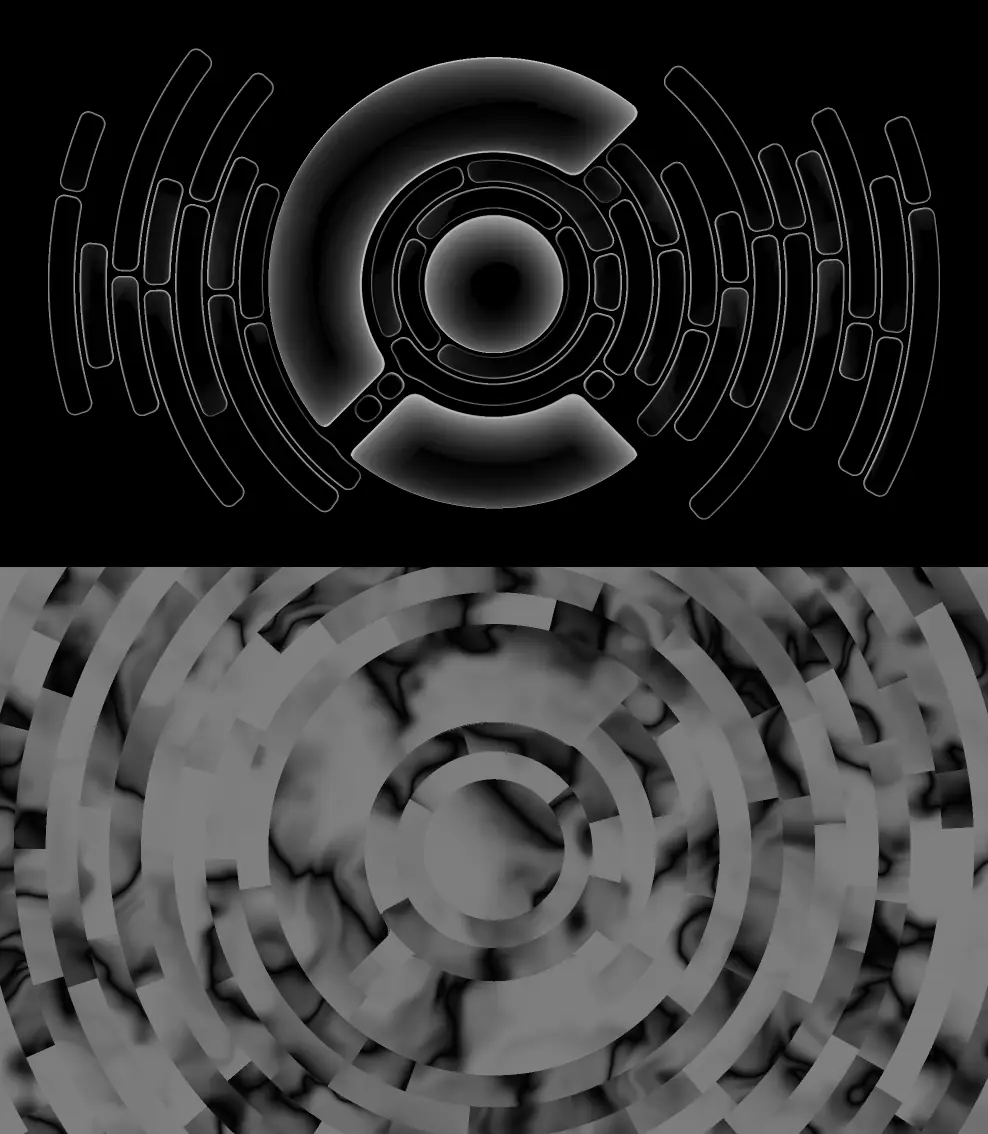
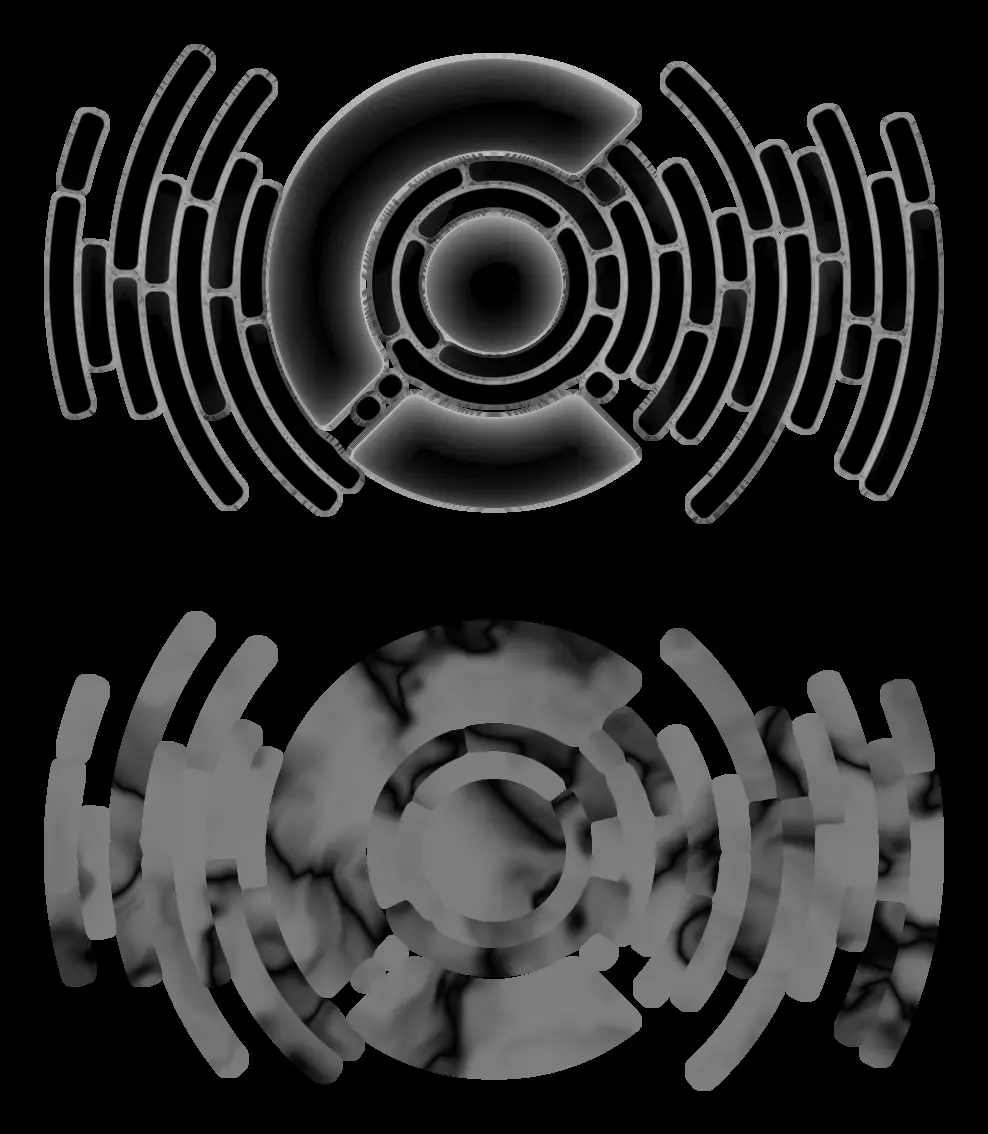
feat(repo): add a drifting highlight and smoother grain to the Mosaic hero
The hero gains a slow drifting specular light on desktop. The surface grain no
longer shows a grid under the hover iridescence and stays off the bevels, and
the stepped outline around the Clerk symbol in dark mode is fixed.

diff --git a/packages/mosaic-site/src/components/marketing/baked-mosaic.tsx b/packages/mosaic-site/src/components/marketing/baked-mosaic.tsx
@@ -148,6 +148,8 @@ const SHEEN: Sheen = {
 
 export const SWAY = { x: 0.2, y: 160, speed: 0.1, detail: 0.5, glint: 0.05, size: 12 };
 
+export const DRIFT = { light: 0.06, dark: 0.08, size: 14, height: 260, reachX: 0.3, reachY: 150, period: 16 };
+
 export const SWAY_FRAME_MS = 32;
 const SWAY_IDLE_MS = 20000;
 
@@ -305,6 +307,11 @@ uniform float u_sheen_light;
 uniform float u_sheen_light_tint;
 uniform float u_sheen_dark;
 uniform float u_sway_size;
+uniform float u_drift_x;
+uniform float u_drift_y;
+uniform float u_drift_z;
+uniform float u_drift_size;
+uniform float u_drift_glint;
 uniform float u_fresnel;
 uniform float u_highlight;
 uniform float u_fresnel_power;
@@ -457,6 +464,8 @@ void main() {
   alpha = mix(alpha, baked.r, frost);
   skeletonAlpha = mix(skeletonAlpha, baked.g, frost);
   vec2 scene = at + vec2(u_origin_x, u_origin_y);
+  vec2 detailAt = (scene - vec2(u_center_x, u_center_y)) / max(u_zoom, 0.05);
+  float detailPixel = max(fwidth(detailAt.x), fwidth(detailAt.y));
   vec3 toLight = normalize(vec3(u_light_x * u_scene_w, -u_light_y, u_light_z) - vec3(scene, 0.0));
   vec3 color = vec3(0.0);
 
@@ -464,16 +473,16 @@ void main() {
     vec2 packedNormal = surfaceData.rg * 2.0 - 1.0;
     vec2 nxy = packedNormal * abs(packedNormal);
     vec3 surface = normalize(vec3(nxy, sqrt(max(1.0 - dot(nxy, nxy), 0.0))));
-    vec2 detail = vec2(0.0);
-    if (u_detail > 0.0) {
-      vec2 detailAt = (scene - vec2(u_center_x, u_center_y)) / max(u_zoom, 0.05);
-      detail = surfaceDetail(detailAt, u_detail_scale, u_detail_grain, u_detail_dots);
-      surface = normalize(surface + vec3(detail * u_detail, 0.0));
-    }
     float packed = floor(surfaceData.b * 255.0 + 0.5);
     float isLogo = step(127.5, packed);
     float tone = clamp((packed - isLogo * 145.0) / 110.0, 0.0, 1.0);
     float edge = clamp(surfaceData.a * 2.0 - 1.0, 0.0, 1.0) * EDGE_MAX;
+    vec2 detail = vec2(0.0);
+    if (u_detail > 0.0) {
+      float detailFace = smoothstep(0.0, max(1.5 * u_depth_reach, 0.001), edge);
+      detail = surfaceDetail(detailAt, detailPixel, u_detail_scale, u_detail_grain, u_detail_dots) * detailFace;
+      surface = normalize(surface + vec3(detail * u_detail, 0.0));
+    }
 
     vec3 tile = mix(u_tile_low, u_tile_high, tone);
     vec3 logoTile = mix(u_logo_low, u_logo_high, tone);
@@ -503,6 +512,11 @@ void main() {
     color += vec3(u_cloud_add * cloudSignal);
     float swaySpread = acos(clamp(dot(surface, halfway), -1.0, 1.0)) / max(radians(u_sway_size), 0.001);
     color += exp(-swaySpread * swaySpread) * u_sway_glint;
+    if (u_drift_glint > 0.0) {
+      vec3 toDrift = normalize(vec3(u_drift_x, u_drift_y, u_drift_z) - vec3(scene, 0.0));
+      float driftSpread = acos(clamp(dot(surface, normalize(toDrift + toEye)), -1.0, 1.0)) / max(radians(u_drift_size), 0.001);
+      color += exp(-driftSpread * driftSpread) * u_drift_glint;
+    }
 
     vec3 sheenAdd = vec3(0.0);
     float sheenReveal = u_sheen > 0.0 ? trailReveal(at) : 0.0;
@@ -549,7 +563,7 @@ void main() {
   float shadow = 0.0;
   if (u_shadow_strength > 0.0 && alpha < 1.0) {
     vec2 reach = toLight.xy / max(toLight.z, 0.05) * u_shadow_height;
-    shadow = occluderAt(at + reach) * u_shadow_strength;
+    shadow = min(occluderAt(at + reach) * u_shadow_strength, 1.0);
   }
 
   vec4 glass = vec4(color * alpha, alpha + shadow * (1.0 - alpha));
@@ -645,6 +659,11 @@ export function buildUniforms(
     u_spec_size: f(s.specSize),
     u_sway_glint: f(SWAY.glint),
     u_sway_size: f(SWAY.size),
+    u_drift_x: f(center[0]),
+    u_drift_y: f(center[1]),
+    u_drift_z: f(DRIFT.height),
+    u_drift_size: f(DRIFT.size),
+    u_drift_glint: f(0),
     u_fresnel: f(s.fresnel),
     u_highlight: f(s.highlight ?? 1),
     u_fresnel_power: f(s.fresnelPower),
@@ -866,12 +885,14 @@ export function BakedMosaic() {
     return () => events.forEach(name => window.removeEventListener(name, onActivity));
   }, [pointerEffects]);
   const startRef = React.useRef<number | null>(null);
+  const reducedRef = React.useRef(false);
   React.useEffect(() => {
     if (!isReady) {
       startRef.current = null;
       return;
     }
     const reduced = window.matchMedia('(prefers-reduced-motion: reduce)').matches;
+    reducedRef.current = reduced;
     startRef.current = reduced ? -Infinity : performance.now();
   }, [isReady]);
   const liveUniforms = React.useCallback(
@@ -882,7 +903,8 @@ export function BakedMosaic() {
       u_skeleton_fade: { type: 'uniform1f', value: skeletonFade(startRef.current) },
       ...(() => {
         const { last, idle } = activityRef.current;
-        const t = ((Math.min(performance.now(), last + SWAY_IDLE_MS) - idle) / 1000) * SWAY.speed;
+        const seconds = (Math.min(performance.now(), last + SWAY_IDLE_MS) - idle) / 1000;
+        const t = seconds * SWAY.speed;
         const swaying = pointerEffects && SWAY.speed > 0;
         const dx = swaying ? swayNoise(t, 0, SWAY.detail) * SWAY.x : 0;
         const dy = swaying ? swayNoise(t, 57, SWAY.detail) * SWAY.y : 0;
@@ -891,10 +913,23 @@ export function BakedMosaic() {
           u_light_y: { type: 'uniform1f', value: settings.lightY + dy },
           u_sway_glint: { type: 'uniform1f', value: swaying ? SWAY.glint : 0 },
           u_sway_size: { type: 'uniform1f', value: SWAY.size },
+          u_drift_x: {
+            type: 'uniform1f',
+            value: center[0] + Math.sin((seconds / DRIFT.period) * Math.PI * 2) * DRIFT.reachX * width,
+          },
+          u_drift_y: {
+            type: 'uniform1f',
+            value: center[1] + Math.sin((seconds / (DRIFT.period * 1.618)) * Math.PI * 2 + 1.3) * DRIFT.reachY,
+          },
+          u_drift_glint: {
+            type: 'uniform1f',
+            value: swaying && !reducedRef.current ? (mode === 'light' ? DRIFT.light : DRIFT.dark) : 0,
+          },
         } satisfies Uniforms;
       })(),
     }),
-    [spring, lightX, follow, pointerEffects, settings.lightY],
+    // eslint-disable-next-line react-hooks/exhaustive-deps
+    [spring, lightX, follow, pointerEffects, settings.lightY, center[0], center[1], width, mode],
   );
   const shouldRender = React.useCallback(() => {
     const start = startRef.current;

diff --git a/packages/mosaic-site/src/components/marketing/mosaic-bake.ts b/packages/mosaic-site/src/components/marketing/mosaic-bake.ts
@@ -5,6 +5,7 @@ export const BAKE_SCALE = 2;
 const PAD = 48;
 const REVEAL_DOWNSAMPLE = 4;
 const SHADE_DOWNSAMPLE = 2;
+const SHADE_DILATE = 4;
 export const BAKE_MARGIN = 400;
 const MARGIN = BAKE_MARGIN;
 
@@ -228,31 +229,81 @@ function revealTextures(
   return { data, width: outWidth, height: outHeight };
 }
 
-function shadeTexture(
-  ao: { data: Uint8Array; width: number; height: number },
-  cloud: { data: Uint8Array; width: number; height: number },
+function coveredAverage(
+  source: { data: Uint8Array; width: number; height: number },
+  mask: { data: Uint8Array },
+  outWidth: number,
+  outHeight: number,
 ) {
   const small = SHADE_DOWNSAMPLE;
-  const outWidth = Math.ceil(ao.width / small);
-  const outHeight = Math.ceil(ao.height / small);
-  const data = new Uint8Array(outWidth * outHeight * 2);
-  [ao, cloud].forEach((source, half) => {
+  let values = new Float32Array(outWidth * outHeight);
+  let filled = new Uint8Array(outWidth * outHeight);
+  for (let y = 0; y < outHeight; y += 1) {
+    for (let x = 0; x < outWidth; x += 1) {
+      let sum = 0;
+      let weight = 0;
+      for (let dy = 0; dy < small; dy += 1) {
+        for (let dx = 0; dx < small; dx += 1) {
+          const sy = y * small + dy;
+          const sx = x * small + dx;
+          if (sy < source.height && sx < source.width) {
+            const at = sy * source.width + sx;
+            const alpha = mask.data[at * 2 + 1];
+            sum += source.data[at] * alpha;
+            weight += alpha;
+          }
+        }
+      }
+      if (weight > 0) {
+        values[y * outWidth + x] = sum / weight;
+        filled[y * outWidth + x] = 1;
+      }
+    }
+  }
+  for (let pass = 0; pass < SHADE_DILATE; pass += 1) {
+    const nextValues = values.slice();
+    const nextFilled = filled.slice();
     for (let y = 0; y < outHeight; y += 1) {
       for (let x = 0; x < outWidth; x += 1) {
+        if (filled[y * outWidth + x]) {
+          continue;
+        }
         let sum = 0;
         let count = 0;
-        for (let dy = 0; dy < small; dy += 1) {
-          for (let dx = 0; dx < small; dx += 1) {
-            const sy = y * small + dy;
-            const sx = x * small + dx;
-            if (sy < source.height && sx < source.width) {
-              sum += source.data[sy * source.width + sx];
+        for (let dy = -1; dy <= 1; dy += 1) {
+          for (let dx = -1; dx <= 1; dx += 1) {
+            const ny = y + dy;
+            const nx = x + dx;
+            if (ny >= 0 && nx >= 0 && ny < outHeight && nx < outWidth && filled[ny * outWidth + nx]) {
+              sum += values[ny * outWidth + nx];
               count += 1;
             }
           }
         }
-        data[(half * outHeight + y) * outWidth + x] = Math.round(sum / Math.max(count, 1));
+        if (count > 0) {
+          nextValues[y * outWidth + x] = sum / count;
+          nextFilled[y * outWidth + x] = 1;
+        }
       }
+    }
+    values = nextValues;
+    filled = nextFilled;
+  }
+  return values;
+}
+
+function shadeTexture(
+  ao: { data: Uint8Array; width: number; height: number },
+  cloud: { data: Uint8Array; width: number; height: number },
+  mask: { data: Uint8Array },
+) {
+  const outWidth = Math.ceil(ao.width / SHADE_DOWNSAMPLE);
+  const outHeight = Math.ceil(ao.height / SHADE_DOWNSAMPLE);
+  const data = new Uint8Array(outWidth * outHeight * 2);
+  [ao, cloud].forEach((source, half) => {
+    const values = coveredAverage(source, mask, outWidth, outHeight);
+    for (let index = 0; index < values.length; index += 1) {
+      data[half * outWidth * outHeight + index] = Math.round(values[index]);
     }
   });
   return { data, width: outWidth, height: outHeight * 2 };
@@ -323,7 +374,7 @@ export async function bakeScene({
     await upload(`surface${suffix}.webp`, crop(surface, box, [0, 1, 2, 3]), 4),
     await upload(`skeleton${suffix}.webp`, skeletonImage, 2),
     await upload(`reveal${suffix}.webp`, revealTextures(maskImage, skeletonImage), 3),
-    await upload(`shade${suffix}.webp`, shadeTexture(aoImage, cloudImage), 1),
+    await upload(`shade${suffix}.webp`, shadeTexture(aoImage, cloudImage, maskImage), 1),
   ];
   const meta = {
     version: Date.now(),

diff --git a/packages/mosaic-site/src/components/marketing/mosaic-scene.tsx b/packages/mosaic-site/src/components/marketing/mosaic-scene.tsx
@@ -692,6 +692,7 @@ float occluderAt(vec2 screen) {
 
 void main() {
   vec2 p = toPattern(fragCoord);
+  float detailPixel = max(fwidth(p.x), fwidth(p.y));
   vec3 color;
   vec3 e;
   vec2 tileId;
@@ -730,7 +731,8 @@ void main() {
   vec3 local = tileNormal * vec3(-1.0, -1.0, 1.0);
   vec3 surface = normalize(base * dot(base, local) / base.z - local);
   if (u_scratch > 0.0 && u_bake == 0) {
-    vec2 detail = surfaceDetail(p, u_scratch_scale, u_scratch_grain, u_scratch_dots);
+    float detailFace = smoothstep(0.0, max(1.5 * u_depth_reach, 0.001), e.x - groutHalf);
+    vec2 detail = surfaceDetail(p, detailPixel, u_scratch_scale, u_scratch_grain, u_scratch_dots) * detailFace;
     surface = normalize(surface + vec3(detail * u_scratch, 0.0));
   }
 
@@ -839,7 +841,7 @@ void main() {
   if (u_shadow_strength > 0.0 && alpha < 1.0 && u_view == 0) {
     vec3 toSun = normalize(vec3(u_light_x * u_resolution.x, -u_light_y, u_light_z) - vec3(fragCoord, 0.0));
     vec2 reach = toSun.xy / max(toSun.z, 0.05) * u_shadow_height;
-    float shadow = occluderAt(fragCoord + reach) * u_shadow_strength;
+    float shadow = min(occluderAt(fragCoord + reach) * u_shadow_strength, 1.0);
     back *= 1.0 - shadow;
     backAlpha = (shadow + backAlpha * (1.0 - shadow)) * bottomFade;
   }
@@ -854,7 +856,7 @@ void main() {
   } else if (u_bake == 2) {
     float edgeDistance = clamp((e.x - groutHalf) / BAKE_EDGE_MAX, 0.0, 1.0);
     float packedTone = (floor(tileToneT(tileId, anchor) * 110.0 + 0.5) + step(0.5, logoAmount) * 145.0) / 255.0;
-    outColor = mix(vec4(0.5, 0.5, 0.0, 1.0), vec4(sign(surface.xy) * sqrt(abs(surface.xy)) * 0.5 + 0.5, packedTone, 0.5 + 0.5 * edgeDistance), covered);
+    outColor = vec4(mix(vec2(0.5), sign(surface.xy) * sqrt(abs(surface.xy)) * 0.5 + 0.5, covered), packedTone, mix(1.0, 0.5 + 0.5 * edgeDistance, covered));
   } else if (u_bake == 5) {
     outColor = vec4(vec3(0.5 + 0.5 * cloudSignal), covered);
   } else if (u_bake == 4) {
@@ -1077,9 +1079,9 @@ const DEFAULTS: Settings = {
   aoFalloff: 1.1,
   aoRelief: 6,
   aoLift: -0.8,
-  scratch: 0.045,
+  scratch: 0.01,
   scratchScale: 376,
-  scratchGrain: 0.4,
+  scratchGrain: 0.065,
   scratchDots: 4,
   cloud: 0.025,
   dmCloud: 0.008,
@@ -1235,9 +1237,9 @@ export const MOBILE_DEFAULTS: Settings = {
   aoFalloff: 1.1,
   aoRelief: 6,
   aoLift: -0.8,
-  scratch: 0.045,
+  scratch: 0.01,
   scratchScale: 376,
-  scratchGrain: 0.4,
+  scratchGrain: 0.065,
   scratchDots: 4,
   cloud: 0.025,
   dmCloud: 0.008,

diff --git a/packages/mosaic-site/src/components/marketing/mosaic-shared.ts b/packages/mosaic-site/src/components/marketing/mosaic-shared.ts
@@ -66,13 +66,17 @@ export function readPalette(mode: Mode, from?: Element): Palette | null {
 
 export const SURFACE_DETAIL_GLSL = `
 float detailHash(vec2 p) {
-  return fract(sin(dot(p, vec2(127.1, 311.7))) * 43758.5453);
+  vec3 p3 = fract(vec3(p.xyx) * 0.1031);
+  p3 += dot(p3, p3.yzx + 33.33);
+  return fract((p3.x + p3.y) * p3.z);
 }
 
-vec2 surfaceDetail(vec2 p, float scale, float grain, float dots) {
-  vec2 q = p * (512.0 / max(scale, 1.0));
-  vec2 i = floor(q);
-  vec2 f = fract(q);
+vec2 surfaceDetail(vec2 p, float pixel, float scale, float grain, float dots) {
+  float toTexel = 512.0 / max(scale, 1.0);
+  vec2 q = p * toTexel;
+  vec2 g = mat2(0.8, -0.6, 0.6, 0.8) * q / max(2.5 * pixel * toTexel, 1.0);
+  vec2 i = floor(g);
+  vec2 f = fract(g);
   vec2 u = f * f * (3.0 - 2.0 * f);
   vec2 du = 6.0 * f * (1.0 - f);
   float a = detailHash(i);
@@ -80,7 +84,7 @@ vec2 surfaceDetail(vec2 p, float scale, float grain, float dots) {
   float c = detailHash(i + vec2(0.0, 1.0));
   float d = detailHash(i + vec2(1.0, 1.0));
   float k = a - b - c + d;
-  vec2 slope = du * vec2(b - a + k * u.y, c - a + k * u.x) * grain;
+  vec2 slope = mat2(0.8, 0.6, -0.6, 0.8) * (du * vec2(b - a + k * u.y, c - a + k * u.x)) * grain;
   if (dots > 0.0) {
     float cell = 24.0 / sqrt(dots);
     vec2 id = floor(q / cell);
